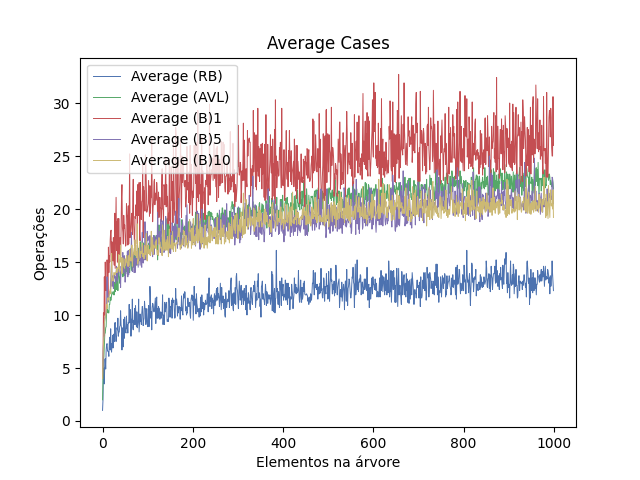
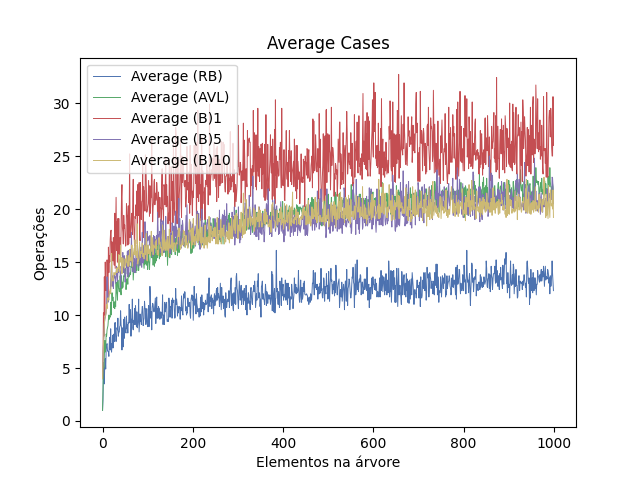
Tirei contador do newNode na AVL

Changed region(s): [[0.1562, 0.3438, 0.875, 0.7188]]

diff --git a/AVL/AVL.c b/AVL/AVL.c
@@ -29,7 +29,6 @@ int max(int a, int b)
 // Create a node
 struct Node *newNode(int key)
 {
-    cont += 1;
     struct Node *node = (struct Node *)
         calloc(1,sizeof(struct Node));
     node->key = key;
